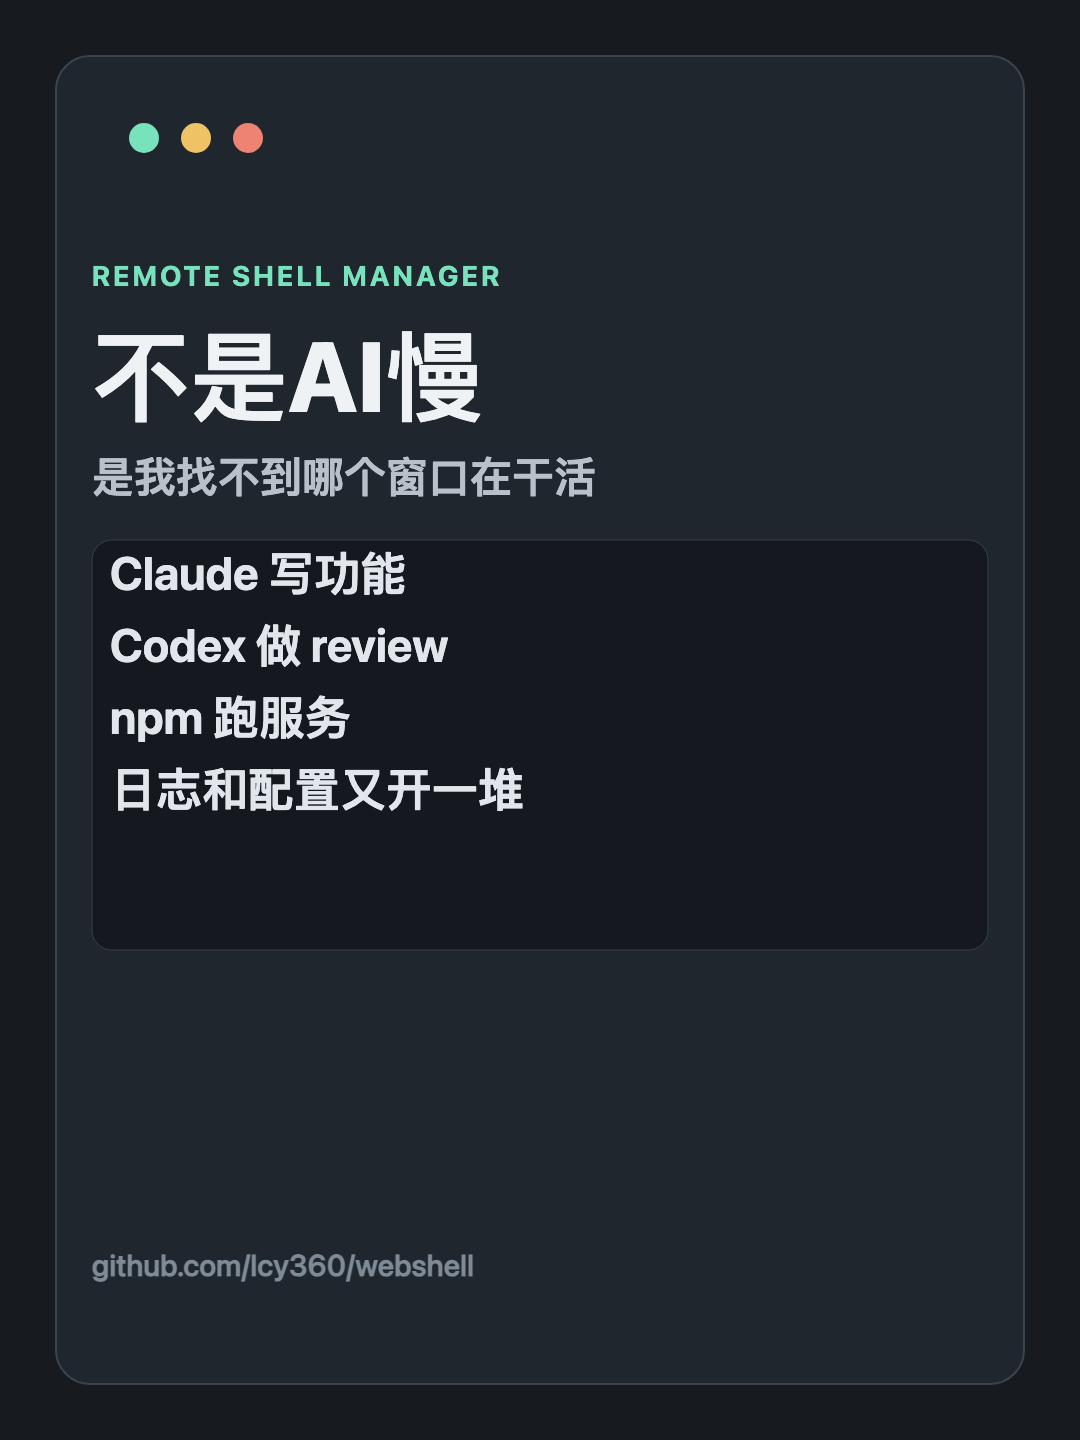
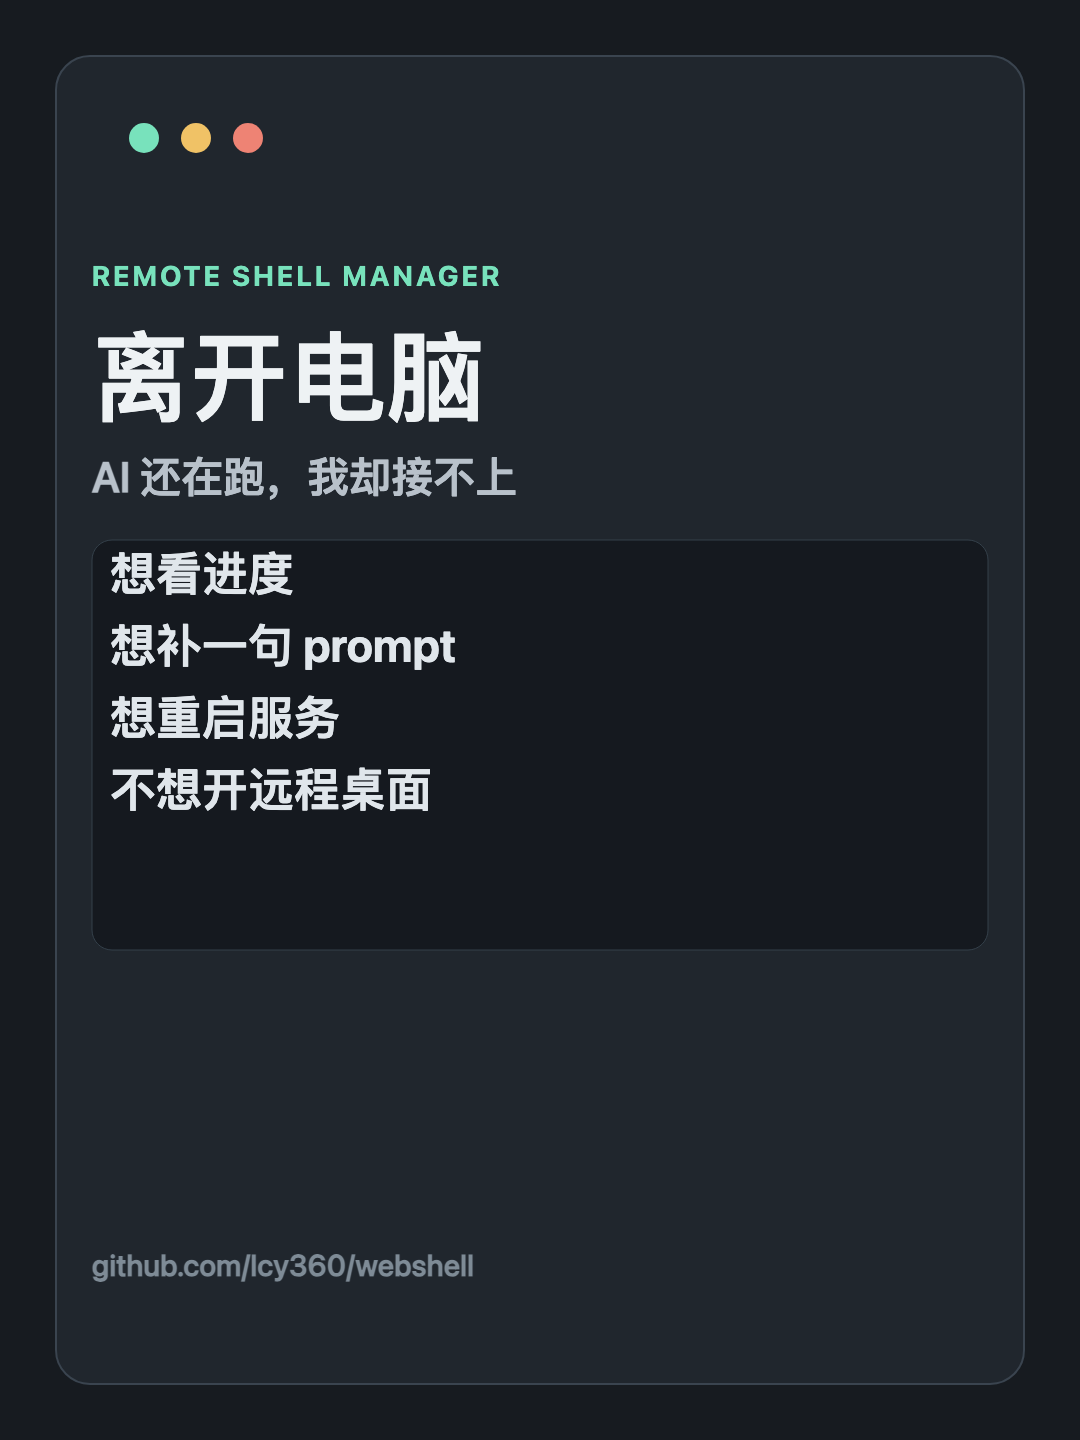
Emphasize mobile remote coding angle

Changed region(s): [[0.0917, 0.375, 0.4889, 0.5625], [0.0917, 0.2188, 0.55, 0.3438]]

diff --git a/marketing/xiaohongshu/note.md b/marketing/xiaohongshu/note.md
@@ -1,14 +1,14 @@
 # 标题
 
-多开AI终端，我用Web统一管
+手机也能远程开AI终端
 
 # 正文
 
-最近 vibe coding 最大的阻力，不是 AI 不会写，而是我自己找不到窗口了。
+最近 vibe coding 最大的阻力，不是 AI 不会写，而是我离开电脑后就接不上了。
 
-一个终端跑 Claude Code，一个终端跑 Codex，一个终端跑 npm dev，再开几个 shell 看日志、改配置。看起来像在并行开发，实际是在疯狂切窗口。
+一个终端跑 Claude Code，一个终端跑 Codex，一个终端跑 npm dev，再开几个 shell 看日志、改配置。出门之后想看进度、补一句 prompt、重启服务，就很尴尬。
 
-所以我做了 Webshell：把多个本机 shell 放进浏览器统一管理。
+所以我做了 Webshell：把多个本机 shell 放进浏览器统一管理，也能通过手机远程接着操作。
 
 它不封装 Claude / Codex，也不替你决定工作流。你只是在浏览器里开 shell，然后自己启动：
 
@@ -24,7 +24,7 @@ ssh your-server
 1. 一个 shell 让 Claude 写功能
 2. 一个 shell 让 Codex 做 review
 3. 一个 shell 跑测试和服务
-4. 手机上临时看进度，不用远程桌面
+4. 手机上看进度、补命令、继续 vibe coding
 
 这版重点修了几个真痛点：
 
@@ -48,7 +48,7 @@ npm start
 
 如果要外网访问，建议只绑定 localhost，再用 Cloudflare Tunnel 或 Nginx HTTPS 反代。注意：能登录的人就能执行 shell 命令，密码和访问控制一定要认真做。
 
-这个工具更像是给 AI CLI 时代补一个“窗口管理层”。不是替代终端，而是让多终端并行时不再那么乱。
+这个工具更像是给 AI CLI 时代补一个“远程窗口管理层”。不是替代终端，而是让多终端并行和手机远程接管都顺一点。
 
 GitHub：
 https://github.com/lcy360/webshell

diff --git a/marketing/xiaohongshu/research.md b/marketing/xiaohongshu/research.md
@@ -31,3 +31,11 @@ Representative posts from Xiaohongshu search:
 - Added a clear AI CLI use case: Claude writes, Codex reviews, npm runs tests.
 - Shortened the setup section and retained the security warning.
 - Updated card copy to match the new narrative.
+
+## Follow-up Positioning
+
+Remote access and mobile operation should stay near the top of the story. The stronger positioning is:
+
+> Mobile remote control for long-running AI CLI workflows.
+
+This combines two hooks: multi-terminal AI coding and the ability to continue from a phone without remote desktop. The copy was updated again to lead with mobile remote operation while keeping terminal management as the underlying mechanism.
